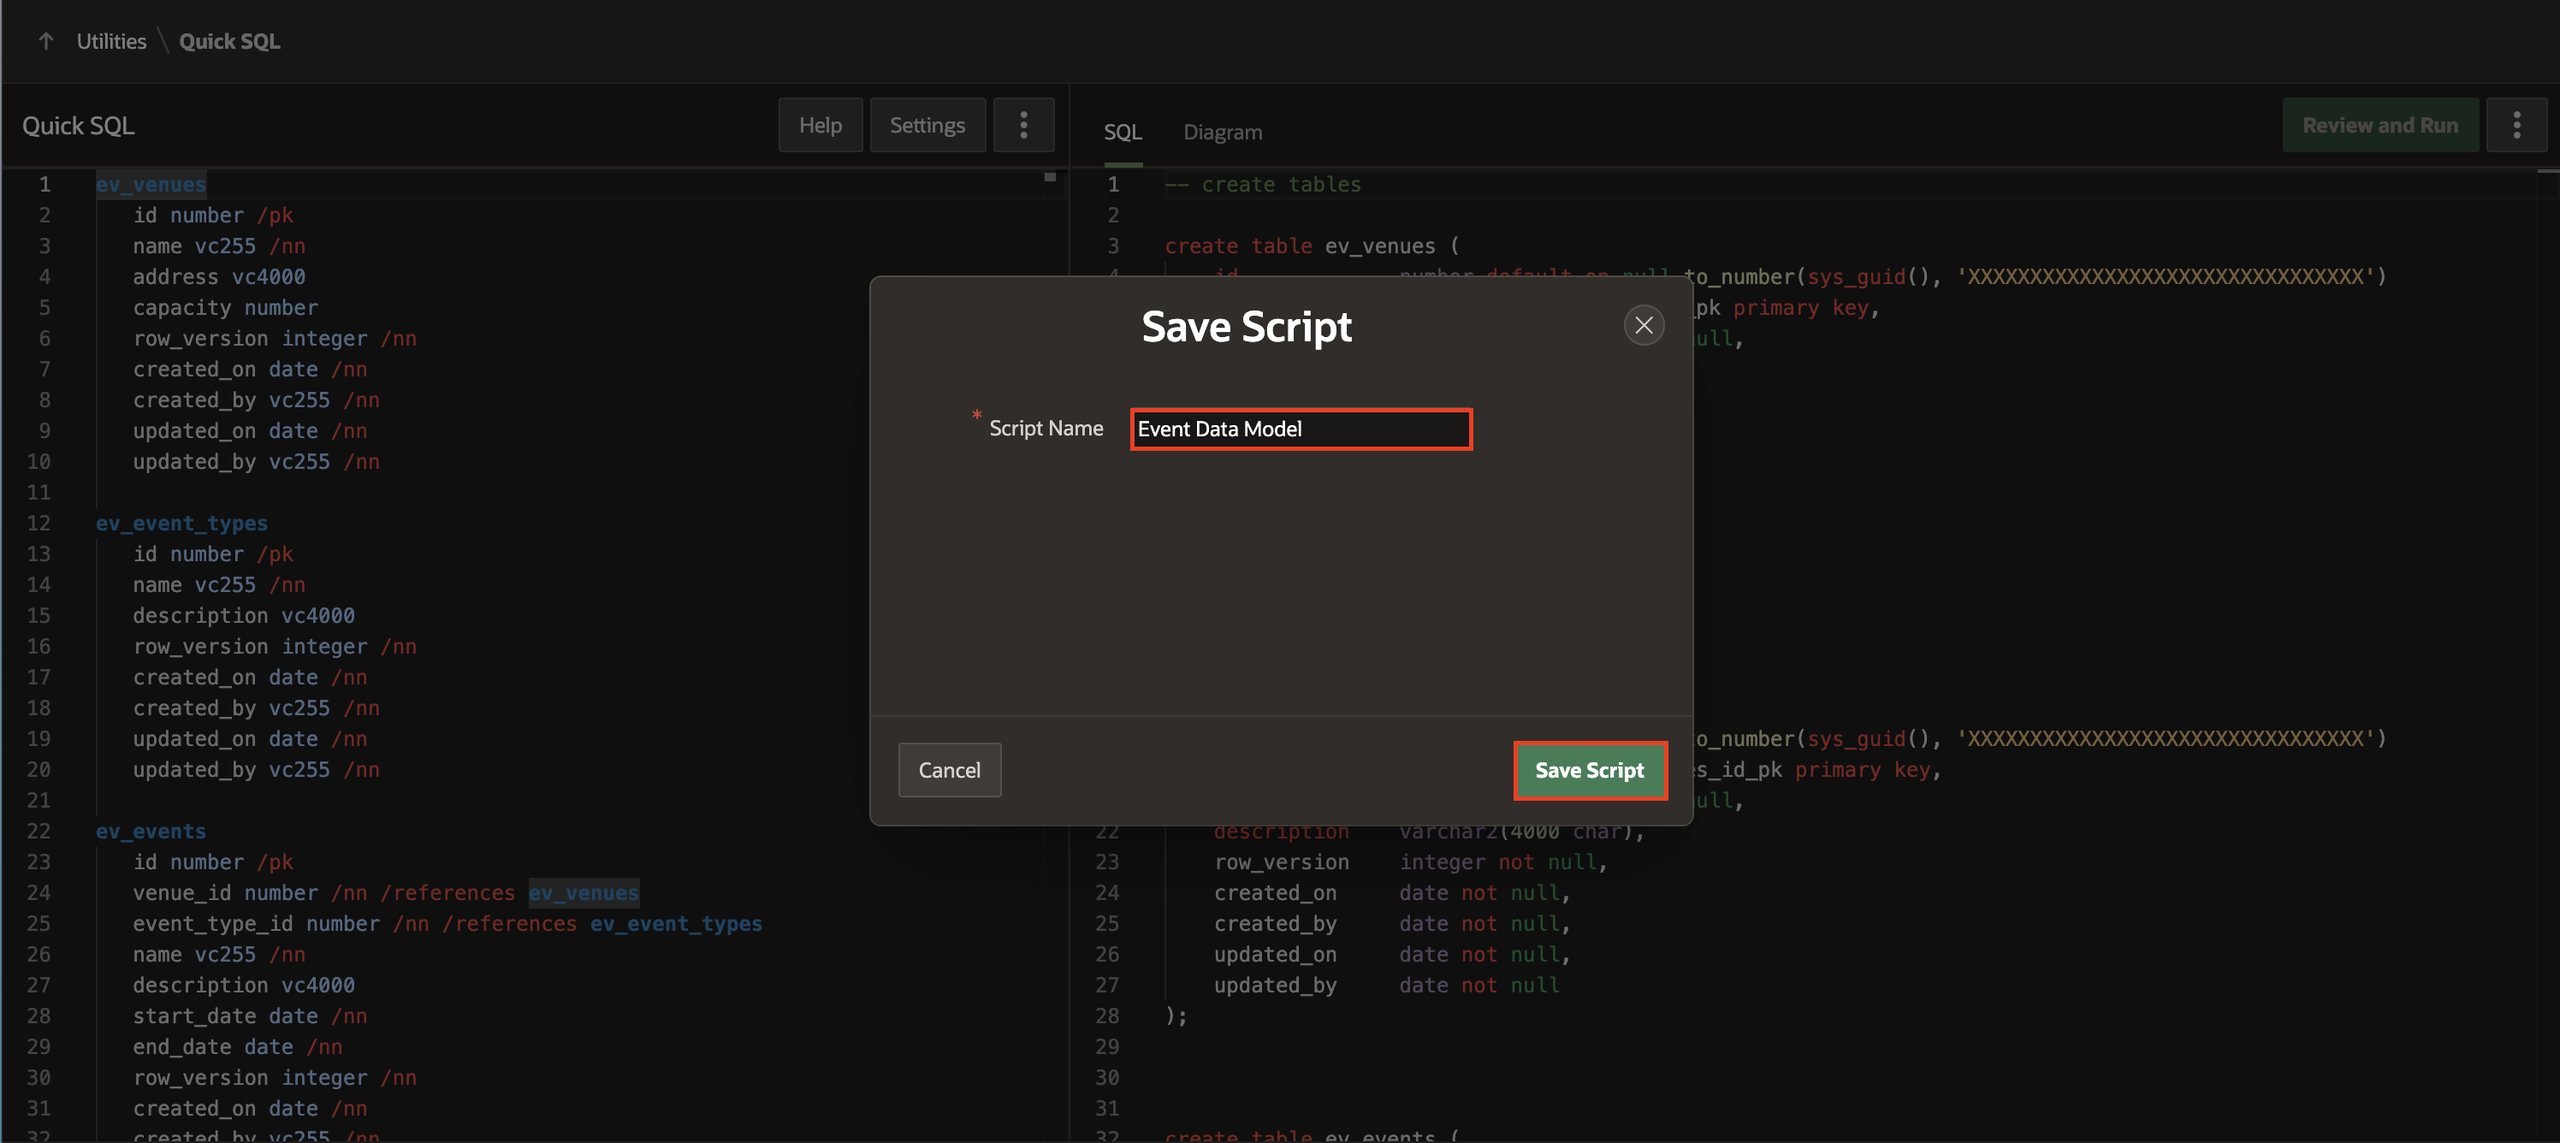
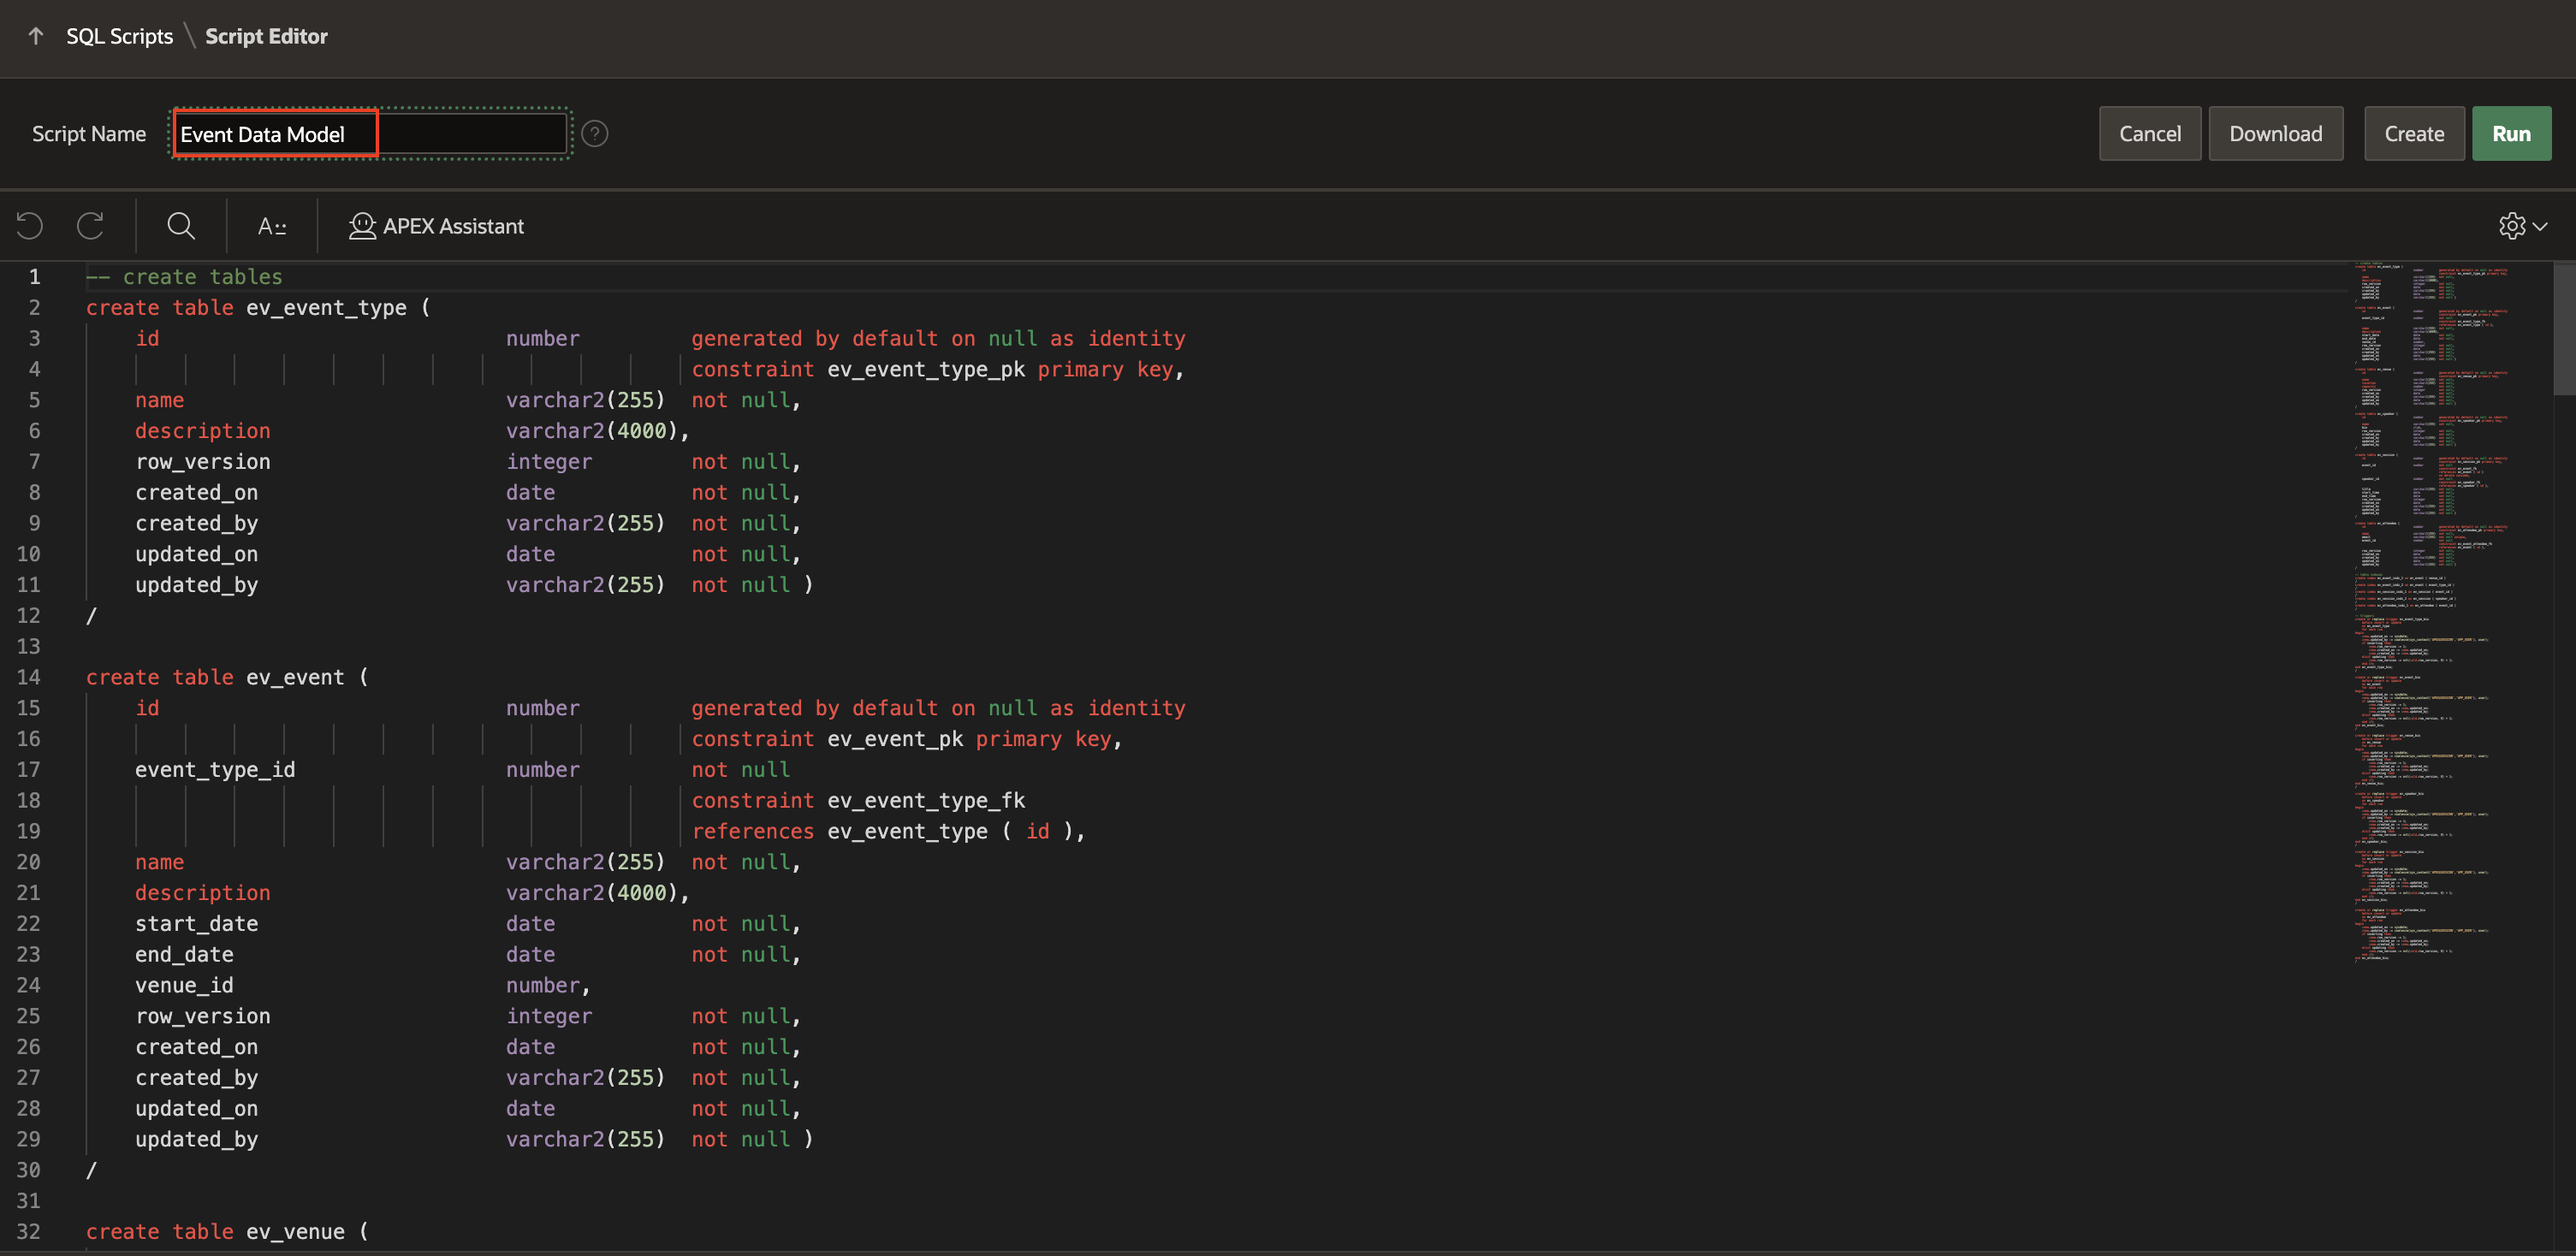
event-mangement

diff --git a/event-mangement/1-installing-sample-datasets/create-data-model-using-ai.md b/event-mangement/1-installing-sample-datasets/create-data-model-using-ai.md
@@ -110,49 +110,45 @@ To create a data model with AI, you need to have a configured Generative AI Serv
 
     !["provide prompt"](images/add-event-types.png "")
 
-7. Now, let's change the format from SQL to **Quick SQL** and add another prompt to update prefix of all database objects.
+7. Add another prompt to update prefix of all database objects.
 
     >Prompt:
     >Prefix all objects with ev_
 
     !["provide prompt"](images/prefix.png "")
 
-8. To complete the **SQL script**, click **Review Quick SQL**.
+8. To complete the **SQL script**, click **Create SQL Script**.
 
     !["click create sql script"](images/review-quick-sql.png "")
 
-9. In the Script Editor page, navigate to **:** beside Review and Run and click **Save SQL Script**.
-
-    !["provide script name"](images/save-sql-script.png "")
-
-10. For Script Name: Enter **Event Data Model** and click **Save Script**.
+9. For Script Name: Enter **Event Data Model** and click **Save Script**.
 
     !["provide script name"](images/event-data-model.png "")
 
-11. Now to add sample data into the tables. Navigate to **APEX Assistant**.
+10. Now to add sample data into the tables. Navigate to **APEX Assistant**.
 
     !["provide script name"](images/click-apex-assistant.png "")
 
-12. Select all your database objects and click **Use Selection** from the APEX Assistant box.
+11. Select all your database objects and click **Use Selection** from the APEX Assistant box.
 
     !["provide script name"](images/use-selection.png "")
 
-13. In APEX Assistant box, enter the prompt to generate sample data for that tables.
+12. In APEX Assistant box, enter the prompt to generate sample data for that tables.
 
     >Prompt:
     >Generate Sample Data
 
     !["provide script name"](images/generate-sample-data.png "")
 
-14. **Copy** the generated insert queries from the APEX Assistant box. insert it into the left code editor in the end.
+13. **Copy** the generated insert queries from the APEX Assistant box. insert it into the left code editor in the end.
 
     !["provide script name"](images/copy-query.png "")
 
-15. Paste the copied queries into the left code editor in the end.
+14. Paste the copied queries into the left code editor in the end.
 
     !["provide script name"](images/insert-query.png "")
 
-16. Replace the code editor with the below modified database objects code:
+15. Replace the code editor with the below modified database objects code:
 
     ```
     <copy>
@@ -576,15 +572,15 @@ To create a data model with AI, you need to have a configured Generative AI Serv
     ```
     </copy>
 
-17. After replacing the code, click **Run** and confirm it with **Yes**.
+16. After replacing the code, click **Run** and confirm it with **Yes**.
 
     !["run now"](images/confirm-yes.png "")
 
-18. Review the summary and then click **Run Now**.
+17. Review the summary and then click **Run Now**.
 
     !["run now"](images/run-now.png "")
 
-19. We can see that all the statements were run successfully.
+18. We can see that all the statements were run successfully.
 
     !["data model created"](images/successful-statemwnts.png "")
 

diff --git a/event-mangement/2-create-app/create-app-using-ai.md b/event-mangement/2-create-app/create-app-using-ai.md
@@ -36,7 +36,7 @@ Estimated Time: 15 minutes
 5. Use the APEX Assistant Wizard to create an Application, to create a Project Management Application, enter the prompt mentioned below and hit **Enter**.
 
     >Prompt 1:
-    >Create an application with Projects, Milestones, Status, Tasks, To-Dos, Links, and Comments. Enable Progressive Web App and Feedback features.
+    >Create an Event Management App. This app should have a calendar page and a Search page for events.
 
     !["first prompt"](images/app-prompt.png "")
 
